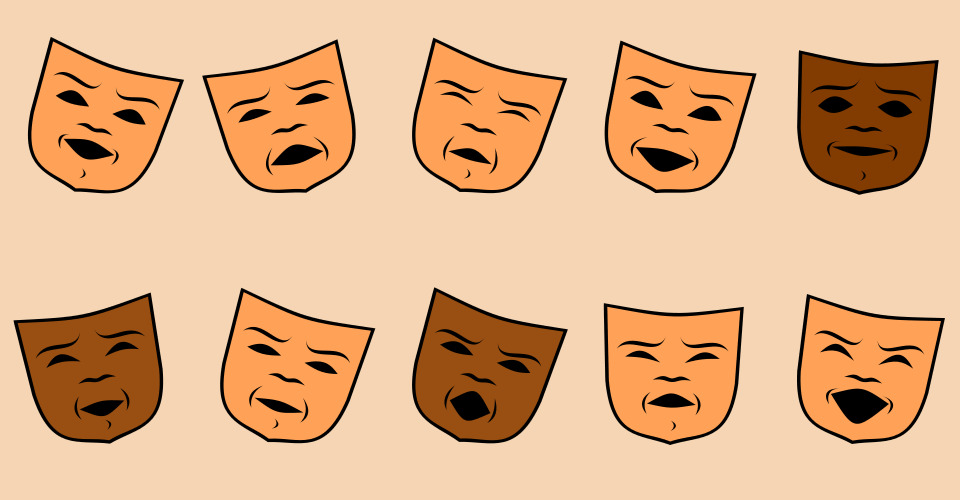
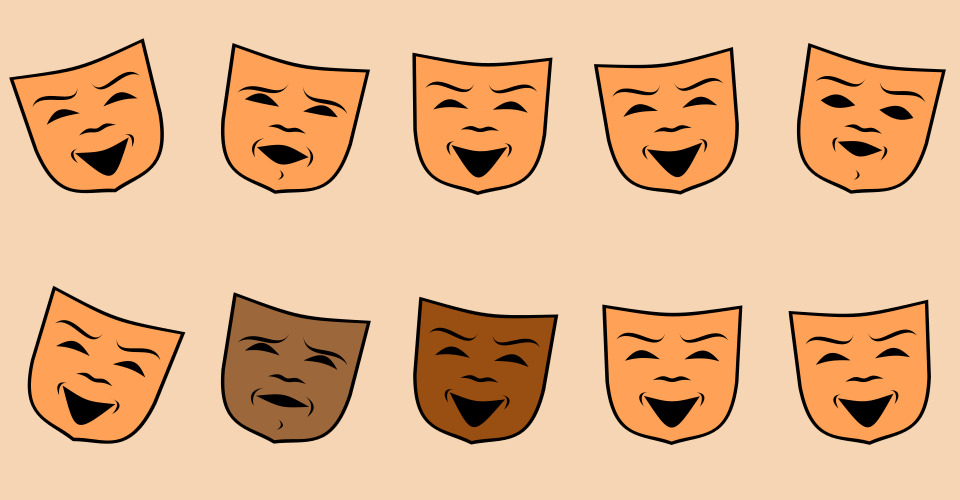
Conditional Randomness.

diff --git a/arrangement.js b/arrangement.js
@@ -63,13 +63,21 @@ function draw () {
         let upperLip = random(-2.5, 0);
         let lowerLip = random(-5, 0);
         let tilt_value = random(-20, 20);
-        // let maskColor = int(random(0, 5));
+        let happy = random(0, 100);
 
-        // if(is_cyclops < 10) {
-        //   eye_value = 1;
-        //   tilt_value = random(-5, 5);
-        //   mouth_value = random(0, 1.7);
-        // }
+        // Conditional Randomness
+        if(happy < 50) {
+          eyeBHead = 0;
+          eyeBEnd = 0;
+          eyeInner = 0;
+          eyeOuter = 0;
+          upperEye = 0;
+          lowerEye = 0;
+          mouthWidth = 0;
+          mouthCorners = 0;
+          upperLip = 0;
+          lowerLip = 0;
+        }
 
         push();
         translate(x, y);
@@ -86,9 +94,7 @@ function draw () {
           maskColor = int(random(1, 5));
         }
 
-
         faceMask(eyeBHead, eyeBEnd, eyeInner, eyeOuter, upperEye, lowerEye, mouthWidth, mouthCorners, upperLip, lowerLip, tilt_value, maskColor);
-
 
         pop();
 

diff --git a/README.md b/README.md
@@ -3,4 +3,4 @@
 ## 2023 MDDN342 Assignment 2: Randomised Collections
 **This is where you talk about your project!**
 
-Little experiment with Weighted Selection (spinner analogy). I chose to do this with the face colour, adjusting it so theres a 75% chance of getting the lighter colour. Kind of unintentially highlights issues of racism/colourism, in terms of preferred shades [of brown]. In reality the contast of the lighter shade better shows the facial features, so I chose that one.
+Little experiment with Conditional Randomness. I just used a random variable to dictate the values of my facial features, e.g. variable < 50, all facial feature values = 0. I don't know if I'll use this one; I think I already have enough of the required parameters (1 discrete, 2 continuous), but if I do I think I'll do at least 2 conditional faces.
